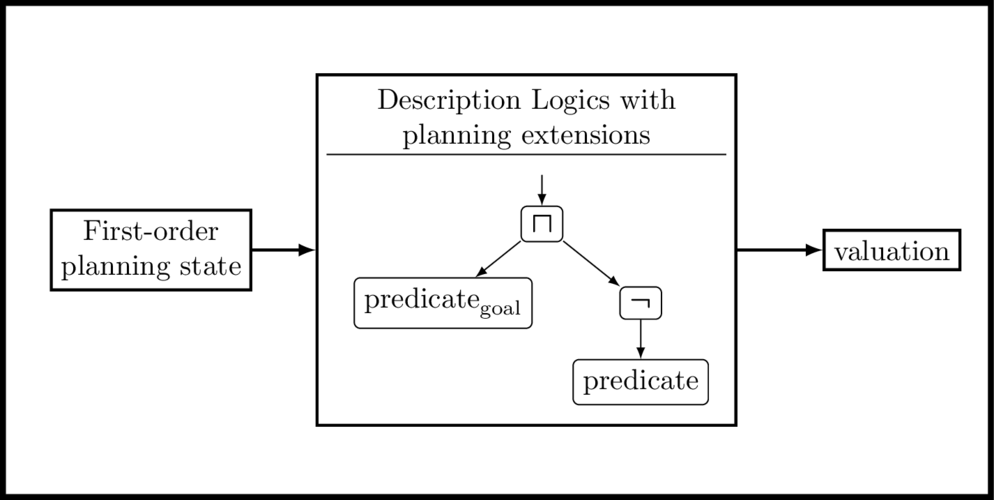
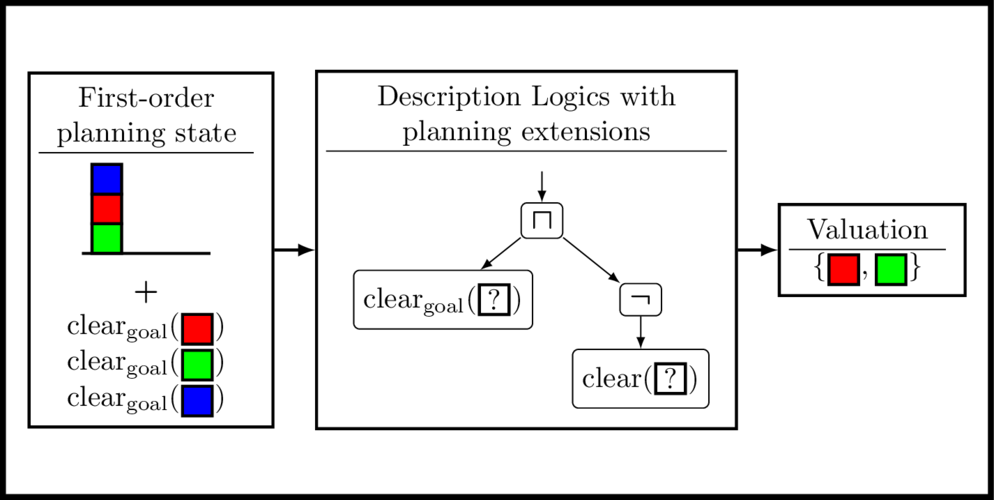
new thumbnail

diff --git a/images/thumbnail.tex b/images/thumbnail.tex
@@ -3,12 +3,36 @@
 \usetikzlibrary{arrows}
 \usepackage{amsmath}
 \usepackage{booktabs}
+\usepackage{mathtools}
+
+% arguments are scale and block color
+\newcommand{\block}[3]{
+    \begin{tikzpicture}[scale=#1]
+        \draw[black, sharp corners, fill=#2, line width=1pt] (0,0) rectangle (3, 3);
+        \node at (1.5, 1.5) {#3};
+    \end{tikzpicture}
+}
 
 \begin{document}
 \begin{tikzpicture}[scale=0.12]
     \draw[black,line width=2pt] (0,0) rectangle (100, 50);
 
-    \node[draw, rectangle, line width=1pt, align=center] (state) at (15,25) {First-order \\ planning state};
+    \node[draw, rectangle, line width=1pt, align=center] (state) at (15,25) {
+        \begin{tabular}{c}
+        First-order \\ planning state \\
+        \hline
+        \begin{tikzpicture}[scale=0.12]
+            \node[align=center] (dummy) at (0,3) {\block{0.12}{red}{}};
+            \node[align=center] (dummy) at (0,0) {\block{0.12}{green}{}};
+            \node[align=center] (dummy) at (0,6) {\block{0.12}{blue}{}};
+            \draw[line width=1] (-3,-1.5) -- (10,-1.5);
+        \end{tikzpicture} \\
+        $\boldsymbol{+}$ \\
+        $\text{clear}_\text{goal}(\kern-3pt\raisebox{-4pt}{\block{0.12}{red}{}}\kern-3pt)$ \\
+        $\text{clear}_\text{goal}(\kern-3pt\raisebox{-4pt}{\block{0.12}{green}{}}\kern-3pt)$ \\
+        $\text{clear}_\text{goal}(\kern-3pt\raisebox{-4pt}{\block{0.12}{blue}{}}\kern-3pt)$
+    \end{tabular}
+    };
 
     \node[draw, rectangle, line width=1pt, align=center] (feature) at (53,25) {
         \begin{tabular}{c}
@@ -18,9 +42,9 @@
             \begin{tikzpicture}[scale=0.12]
                 \node[align=center] (dummy) at (0,40) {};
                 \node[draw, rectangle, rounded corners=2pt, align=center] (root) at (0,34) {$\boldsymbol{\sqcap}$};
-                \node[draw, rectangle, rounded corners=2pt, align=center] (n1) at (-10,26) {$\text{predicate}_\text{goal}$};
+                \node[draw, rectangle, rounded corners=2pt, align=center] (n1) at (-10,26) {$\text{clear}_\text{goal}(\kern-3pt\raisebox{-4pt}{\block{0.12}{white}{?}}\kern-3pt)$};
                 \node[draw, rectangle, rounded corners=2pt, align=center] (n2) at (10,26) {$\boldsymbol{\neg}$};
-                \node[draw, rectangle, rounded corners=2pt, align=center] (n3) at (10,18) {predicate};
+                \node[draw, rectangle, rounded corners=2pt, align=center] (n3) at (10,18) {clear(\kern-3pt\raisebox{-4pt}{\block{0.12}{white}{?}}\kern-3pt)};
 
                 \draw[-latex] (dummy) -- (root);
                 \draw[-latex] (root) -- (n1);
@@ -28,7 +52,13 @@
                 \draw[-latex] (n2) -- (n3);
             \end{tikzpicture}
         \end{tabular}};
-    \node[draw, rectangle, line width=1pt, align=center] (valuation) at (90,25) {valuation};
+    \node[draw, rectangle, line width=1pt, align=center] (valuation) at (88,25) {
+        \begin{tabular}{c}
+            Valuation \\
+            \hline
+            $\{\kern-3pt\raisebox{-4pt}{\block{0.12}{red}{}}\kern-3pt,\kern-3pt\raisebox{-4pt}{\block{0.12}{green}{}}\kern-3pt\}$
+        \end{tabular}
+    };
 
     \draw[-latex, line width=1pt] (state) -- (feature);
     \draw[-latex, line width=1pt] (feature) -- (valuation);
